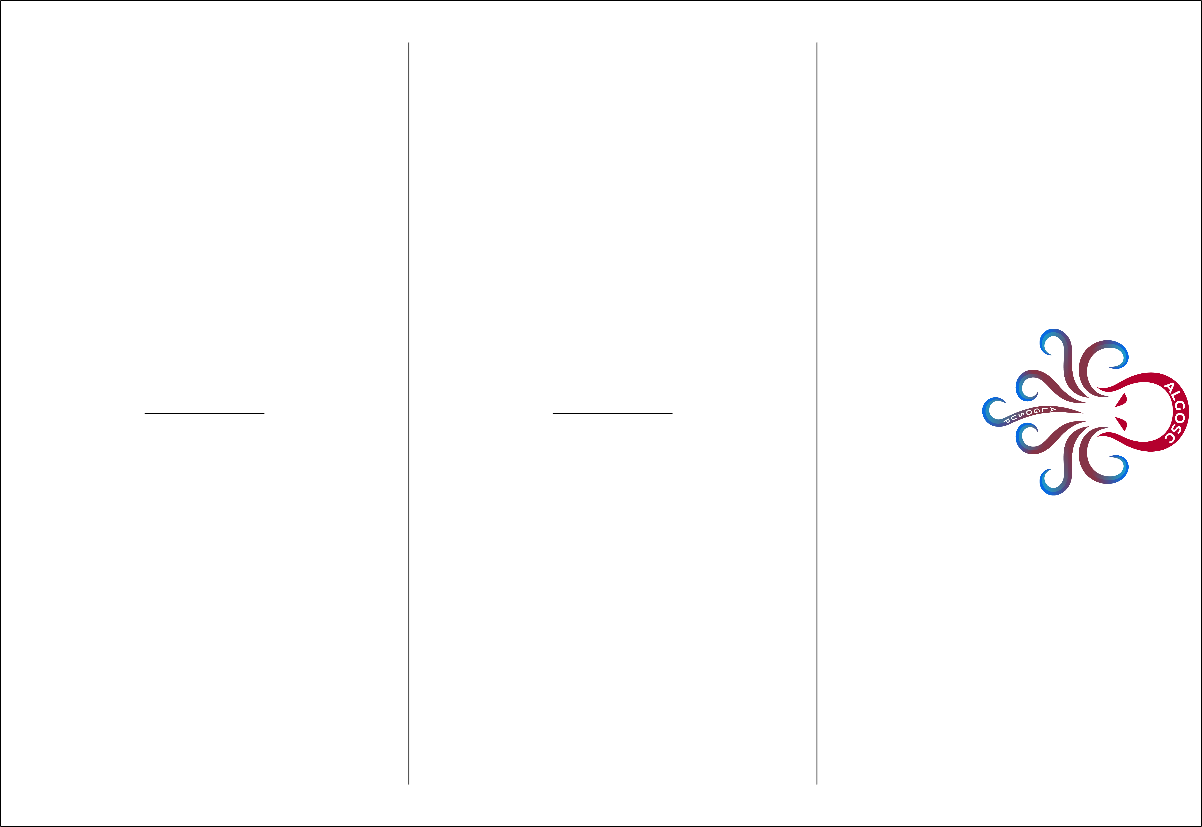
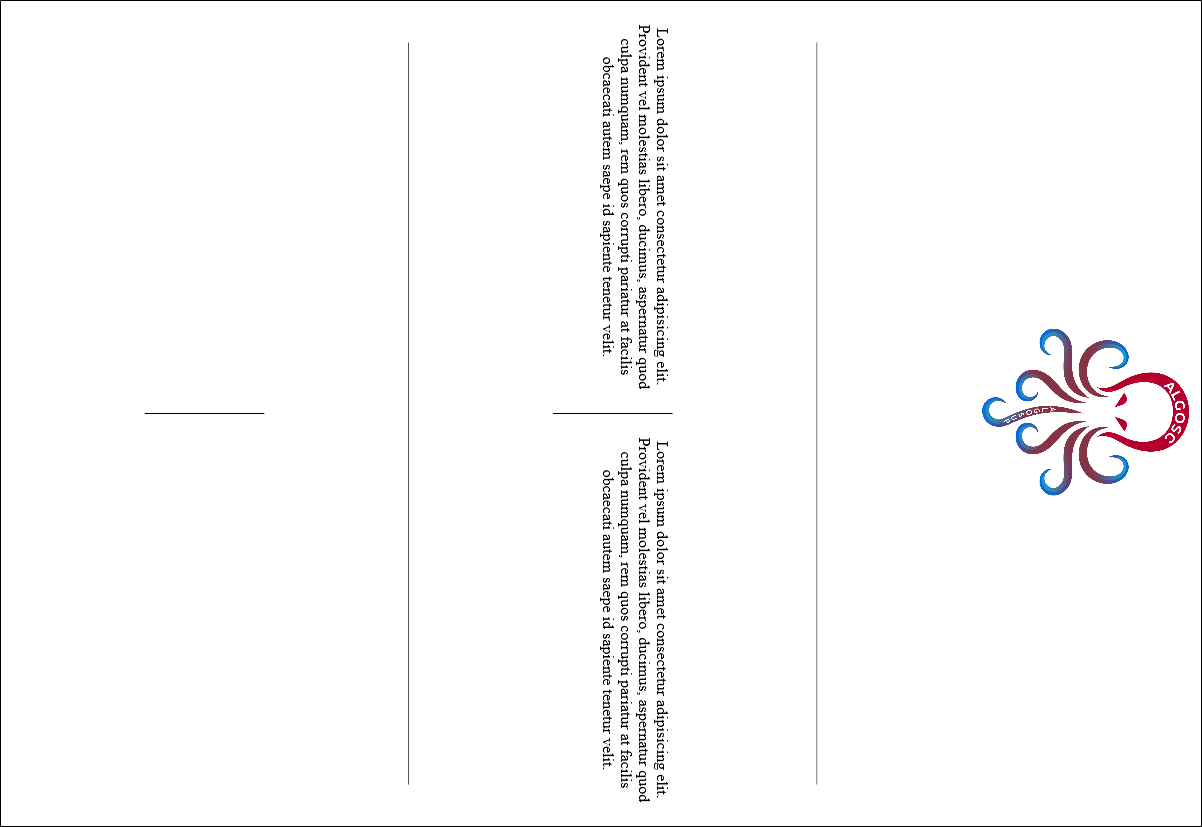
Make the Canvas auto rotate

Changed region(s): [[0.4925, 0.5139, 0.5541, 0.9674], [0.4925, 0.0302, 0.5541, 0.4837]]

diff --git a/js/script.js b/js/script.js
@@ -1,28 +1,24 @@
 
-
-
-
-
-
 function convert(){
     let input = document.getElementById("board");
     html2canvas(input, {
         allowTaint: false,
         useCORS: false,
     } ).then(canvas => {
-        document.body.appendChild(canvas)
+        // rotate the canvas 90 deg before displaying it
+        let rotatedCanvas = document.createElement("canvas");
+        rotatedCanvas.width = canvas.height;
+        rotatedCanvas.height = canvas.width;
+        let ctx = rotatedCanvas.getContext("2d");
+        ctx.translate(rotatedCanvas.width / 2, rotatedCanvas.height / 2);
+        ctx.rotate(90 * Math.PI / 180);
+        ctx.drawImage(canvas, -canvas.width / 2, -canvas.height / 2);
+        document.body.appendChild(rotatedCanvas);
         
     });
 }
-function download(){
-    var canvas = document.getElementsByTagName("canvas")[0];
-    console.log(canvas);
-    var dt = canvas.toDataURL('image/jpeg');
-    this.href = dt;
-};
 
 
 // Add event listener to the id DownloadLnk
 document.getElementById("downloadLnk").addEventListener("click", convert, false);
 
-document.getElementById("download").addEventListener("click", download, false);

diff --git a/index.html b/index.html
@@ -14,8 +14,10 @@
         <img src="./img/logo.png" alt="">
         <span class="h-spacer" ></span>
 
+        <p>Lorem ipsum dolor sit amet consectetur adipisicing elit. Provident vel molestias libero, ducimus, aspernatur quod culpa numquam, rem quos corrupti pariatur at facilis obcaecati autem saepe id sapiente tenetur velit.</p>
         <!-- First Part -->
         <span class="v-spacer" style="height: 10%;"></span>
+        <p>Lorem ipsum dolor sit amet consectetur adipisicing elit. Provident vel molestias libero, ducimus, aspernatur quod culpa numquam, rem quos corrupti pariatur at facilis obcaecati autem saepe id sapiente tenetur velit.</p>
 
         <span class="h-spacer"></span>
         <!-- Second Part -->
@@ -30,7 +32,6 @@
     </section>
     
     <a id="downloadLnk">Convert</a>
-    <a id="download">Download as image</a>
 
 
 

diff --git a/css/style.css b/css/style.css
@@ -2,7 +2,7 @@
     border: 1px solid #000;
     display: flex;
     flex-wrap: wrap;
-    justify-content: center;
+    justify-content: space-evenly;
 }
 img{
     height: 20%;
@@ -17,4 +17,9 @@ img{
 .v-spacer{
     width: 1px;
     background-color: #000;
+}
+p{
+    text-align: center;
+    margin: 0;
+    max-width: 45%;
 }
